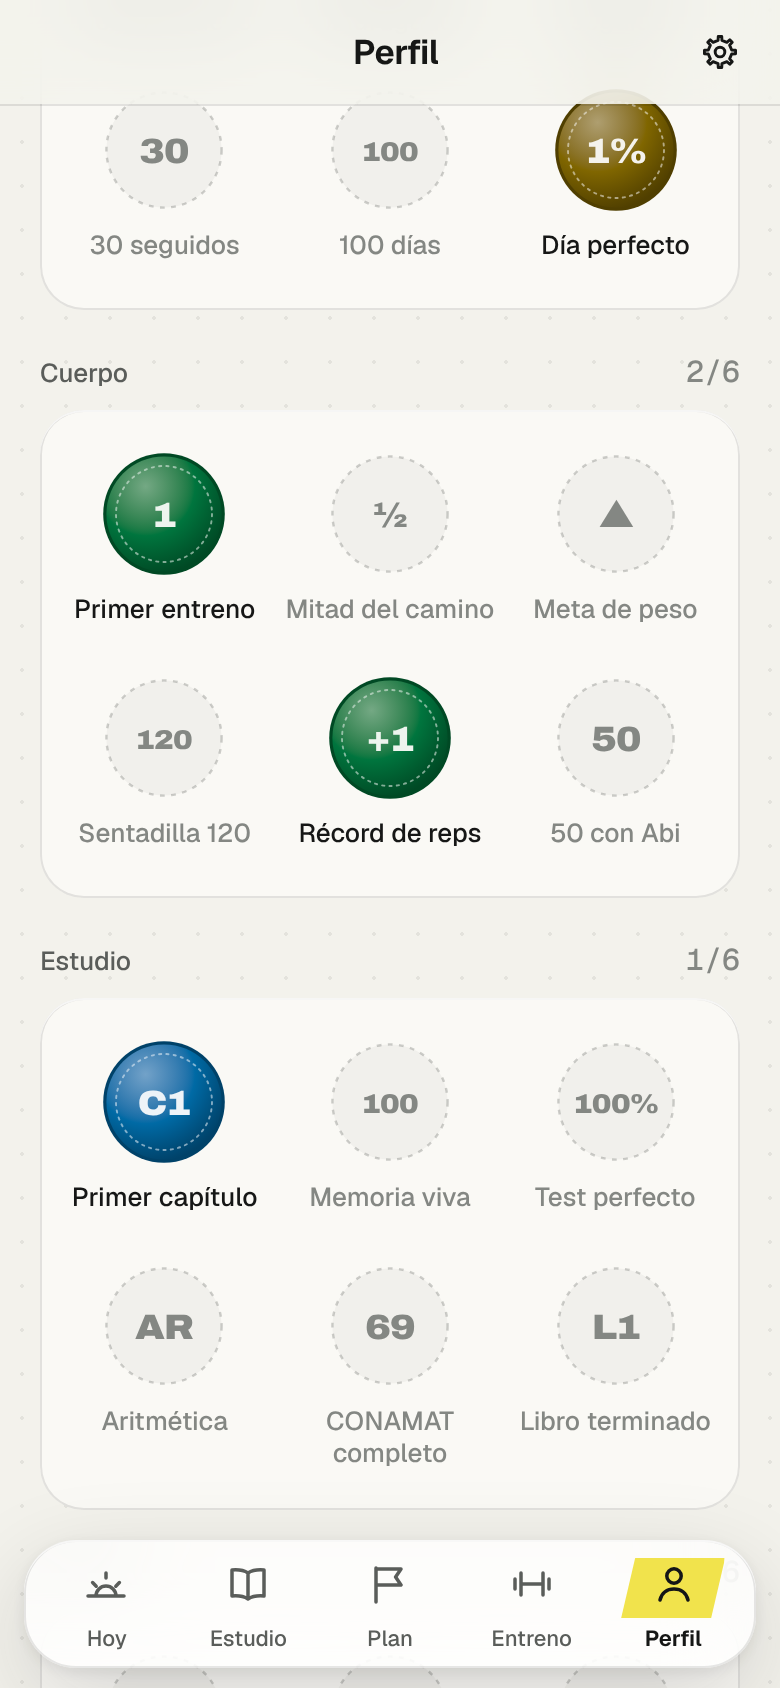
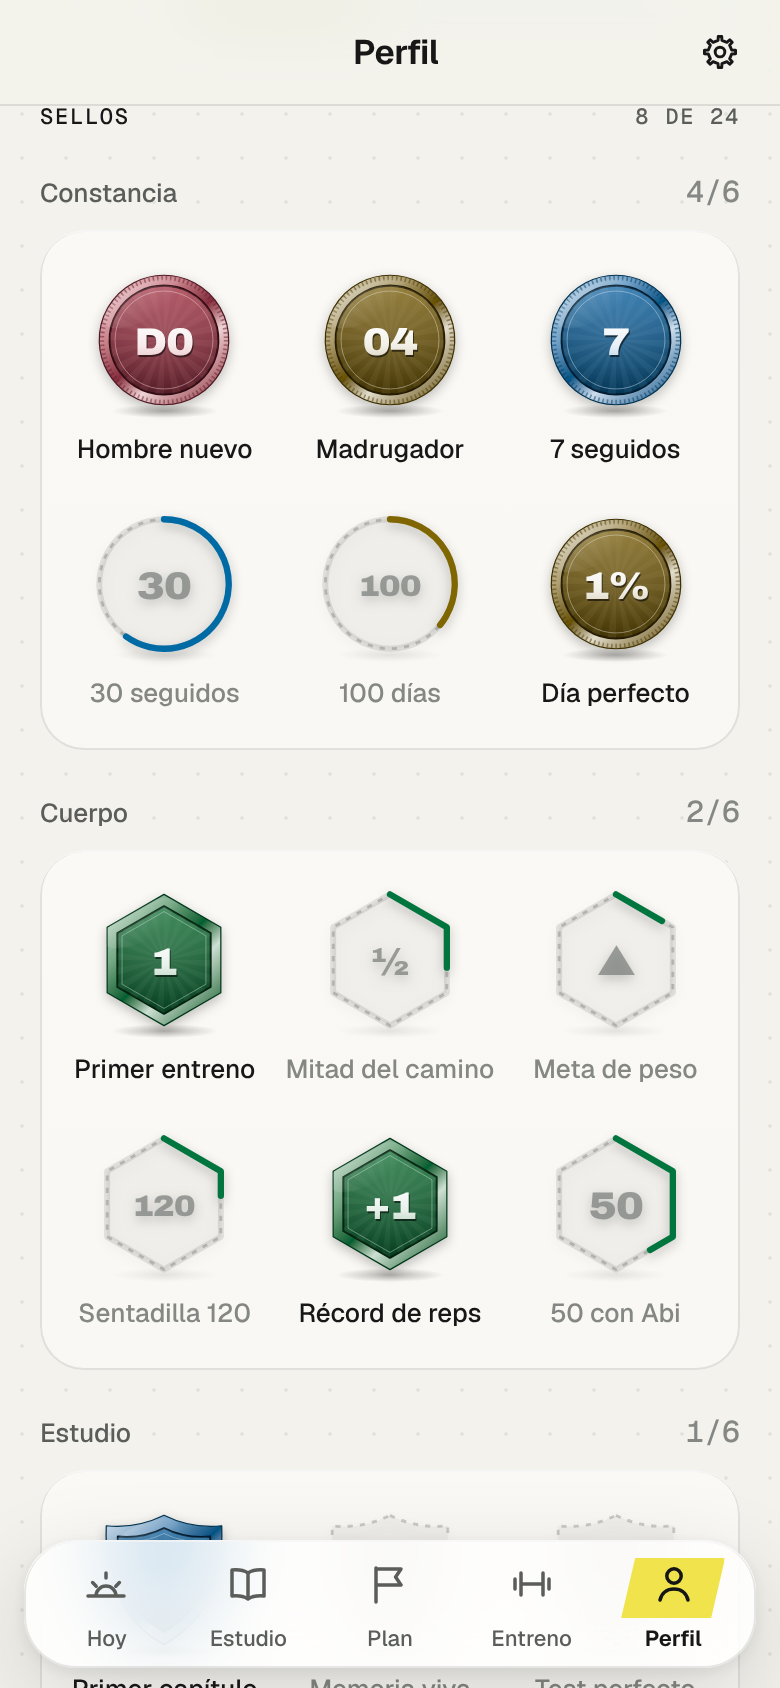
UX 2.0 · seals: enamel face instead of the pastel fill
The earned seal's face was a pastel radial gradient and read as a plastic
button. Now: a metal rim in the area color, a deep enamel face of that
color with engraved rays and a soft glow, and the mark in bright embossed
metal. Light theme: enamel is the area color itself, mark almost white.
Demo captures updated (vitrina, wall, light, detail sheet).

Claude-Session: https://claude.ai/code/session_01QGDMaQtj1DGxCuW8ZLCfdr

diff --git a/src/v2/perfil/Sello.tsx b/src/v2/perfil/Sello.tsx
@@ -1,6 +1,6 @@
 /**
- * Trazo 2.0 · el sello: una pieza acuñada con la silueta de su grupo (moneda, hexágono, escudo o rosetón), canto biselado, cara con
- * el color de su área, la marca grabada y un brillo que la cruza. Bloqueado es la silueta vacía, con un anillo que se llena a
+ * Trazo 2.0 · el sello: una pieza acuñada con la silueta de su grupo (moneda, hexágono, escudo o rosetón). El canto es metal del color
+ * de su área; la cara, esmalte profundo de ese mismo color con rayos grabados; la marca, metal claro en relieve; y un brillo que la cruza. Bloqueado es la silueta vacía, con un anillo que se llena a
  * medida que te acercás. La versión grande (`SelloInclinable`) sigue al dedo o al mouse como una pieza que se inclina en la mano.
  * Es un dibujo: el nombre lo dice quien lo usa.
  */
@@ -25,6 +25,14 @@ export interface PropsSello {
   className?: string;
 }
 
+const r2 = (n: number) => Math.round(n * 100) / 100;
+/** Los rayos grabados en el esmalte: veinte cuñas que salen del centro, una sí y una no. */
+const RAYOS = Array.from({ length: 20 }, (_, k) => {
+  const a = ((k * 18 - 90) * Math.PI) / 180;
+  const b = ((k * 18 - 81) * Math.PI) / 180;
+  return `M40 40L${r2(40 + 48 * Math.cos(a))} ${r2(40 + 48 * Math.sin(a))}L${r2(40 + 48 * Math.cos(b))} ${r2(40 + 48 * Math.sin(b))}Z`;
+}).join('');
+
 export function SelloV2({ marca, color, grupo = 'constancia', ganado, lado = 72, nombre, i = 0, progreso, className }: PropsSello) {
   const id = useId();
   const forma: Forma = FORMA_DE_GRUPO[grupo];
@@ -40,22 +48,31 @@ export function SelloV2({ marca, color, grupo = 'constancia', ganado, lado = 72,
       {ganado ? (
         <>
           <defs>
-            <linearGradient id={`${id}r`} x1="0.1" y1="0" x2="0.9" y2="1"><stop offset="0" className="sl-r0" /><stop offset="0.5" className="sl-r1" /><stop offset="1" className="sl-r2" /></linearGradient>
-            <radialGradient id={`${id}m`} cx="32%" cy="24%" r="85%"><stop offset="0" className="sl-g0" /><stop offset="0.5" className="sl-g1" /><stop offset="1" className="sl-g2" /></radialGradient>
+            {/* El canto: metal con bandas de luz y sombra, como se ve una pieza acuñada. */}
+            <linearGradient id={`${id}r`} x1="0.08" y1="0" x2="0.92" y2="1"><stop offset="0" className="sl-m0" /><stop offset="0.28" className="sl-m1" /><stop offset="0.5" className="sl-m2" /><stop offset="0.66" className="sl-m0" /><stop offset="1" className="sl-m2" /></linearGradient>
+            {/* La cara: esmalte profundo del color del área, más claro arriba. */}
+            <linearGradient id={`${id}e`} x1="0" y1="0" x2="0" y2="1"><stop offset="0" className="sl-e0" /><stop offset="1" className="sl-e1" /></linearGradient>
+            <radialGradient id={`${id}v`} cx="50%" cy="40%" r="58%"><stop offset="0" className="sl-v0" /><stop offset="1" className="sl-v1" /></radialGradient>
+            {/* La marca: metal claro, en relieve. */}
+            <linearGradient id={`${id}t`} x1="0" y1="0" x2="0" y2="1"><stop offset="0" className="sl-t0" /><stop offset="0.6" className="sl-t1" /><stop offset="1" className="sl-t2" /></linearGradient>
             <linearGradient id={`${id}b`} x1="0" y1="0" x2="1" y2="0"><stop offset="0" stopColor="white" stopOpacity="0" /><stop offset="0.5" stopColor="white" stopOpacity="0.9" /><stop offset="1" stopColor="white" stopOpacity="0" /></linearGradient>
-            <linearGradient id={`${id}h`} x1="0" y1="0" x2="0.6" y2="1"><stop offset="0" stopColor="white" stopOpacity="0.5" /><stop offset="1" stopColor="white" stopOpacity="0" /></linearGradient>
+            <linearGradient id={`${id}h`} x1="0" y1="0" x2="0.6" y2="1"><stop offset="0" stopColor="white" stopOpacity="0.42" /><stop offset="1" stopColor="white" stopOpacity="0" /></linearGradient>
             <clipPath id={`${id}c`}><path d={contorno} /></clipPath>
           </defs>
           <path className="sl-canto" d={contorno} fill={`url(#${id}r)`} />
           {forma === 'moneda' && <circle className="sl-estrias" cx="40" cy="40" r="35.4" />}
           <g transform={cara}>
-            <path className="sl-cara" d={contorno} fill={`url(#${id}m)`} />
-            <path className="sl-aro" d={contorno} transform="translate(40 40) scale(0.88) translate(-40 -40)" />
+            <path className="sl-cara" d={contorno} fill={`url(#${id}e)`} />
+            <g clipPath={`url(#${id}c)`}>
+              <path className="sl-rayos" d={RAYOS} />
+              <circle cx="40" cy="40" r="44" fill={`url(#${id}v)`} />
+            </g>
+            <path className="sl-aro" d={contorno} transform="translate(40 40) scale(0.9) translate(-40 -40)" />
           </g>
-          <text className="sl-marca sl-marca-luz" x="40.7" y="42" textAnchor="middle" dominantBaseline="central" fontSize={largo}>{marca}</text>
-          <text className="sl-marca" x="40" y="41" textAnchor="middle" dominantBaseline="central" fontSize={largo}>{marca}</text>
+          <text className="sl-marca sl-marca-sombra" x="40.6" y="42.3" textAnchor="middle" dominantBaseline="central" fontSize={largo}>{marca}</text>
+          <text className="sl-marca" x="40" y="41" textAnchor="middle" dominantBaseline="central" fontSize={largo} style={{ fill: `url(#${id}t)` }}>{marca}</text>
           <g clipPath={`url(#${id}c)`}>
-            <ellipse className="sl-reflejo" cx="29" cy="21" rx="22" ry="11" transform="rotate(-28 29 21)" fill={`url(#${id}h)`} />
+            <ellipse className="sl-reflejo" cx="27" cy="19" rx="24" ry="10" transform="rotate(-28 27 19)" fill={`url(#${id}h)`} />
             <rect className="sl-brillo" x="-34" y="-10" width="26" height="100" fill={`url(#${id}b)`} />
           </g>
         </>

diff --git a/src/v2/perfil/perfil.css b/src/v2/perfil/perfil.css
@@ -1,27 +1,32 @@
 /* ——— Perfil, Avance, Cierre y la presentación (tanda 3.2) ——— */
 
-/* El sello: una pieza acuñada con la silueta de su grupo y el color de su área. */
-.sl { --sl-tinta: color-mix(in oklab, var(--sl-c) 24%, black); --sl-luz: color-mix(in oklab, var(--sl-c) 48%, white); --sl-sombra: color-mix(in oklab, var(--sl-c) 56%, black); --sl-canto-claro: color-mix(in oklab, var(--sl-c) 30%, white); --sl-canto-oscuro: color-mix(in oklab, var(--sl-c) 40%, black); display: block; flex: none; overflow: visible; filter: drop-shadow(0 2px 3px color-mix(in oklab, black 38%, transparent)); }
-html[data-ui='v2'][data-theme='light'] .sl { --sl-tinta: color-mix(in oklab, var(--sl-c) 12%, black); --sl-luz: color-mix(in oklab, var(--sl-c) 52%, white); --sl-sombra: color-mix(in oklab, var(--sl-c) 70%, black); filter: drop-shadow(0 2px 3px color-mix(in oklab, black 22%, transparent)); }
+/* El sello: una pieza acuñada con la silueta de su grupo. Canto de metal, cara de esmalte profundo y marca de metal claro. */
+.sl { --sl-metal-luz: color-mix(in oklab, var(--sl-c) 42%, white); --sl-metal: var(--sl-c); --sl-metal-sombra: color-mix(in oklab, var(--sl-c) 46%, black); --sl-esmalte-0: color-mix(in oklab, var(--sl-c) 40%, black); --sl-esmalte-1: color-mix(in oklab, var(--sl-c) 15%, black); --sl-marca-0: color-mix(in oklab, var(--sl-c) 14%, white); --sl-marca-1: color-mix(in oklab, var(--sl-c) 58%, white); --sl-marca-2: var(--sl-c); display: block; flex: none; overflow: visible; filter: drop-shadow(0 2px 3px color-mix(in oklab, black 42%, transparent)); }
+/* En claro los colores de área son oscuros: el esmalte es ese color, el metal va más claro y la marca casi blanca. */
+html[data-ui='v2'][data-theme='light'] .sl { --sl-metal-luz: color-mix(in oklab, var(--sl-c) 22%, white); --sl-metal: color-mix(in oklab, var(--sl-c) 62%, white); --sl-metal-sombra: color-mix(in oklab, var(--sl-c) 86%, black); --sl-esmalte-0: color-mix(in oklab, var(--sl-c) 88%, white); --sl-esmalte-1: color-mix(in oklab, var(--sl-c) 60%, black); --sl-marca-0: white; --sl-marca-1: color-mix(in oklab, var(--sl-c) 10%, white); --sl-marca-2: color-mix(in oklab, var(--sl-c) 30%, white); filter: drop-shadow(0 2px 3px color-mix(in oklab, black 24%, transparent)); }
 .sl-bloqueado { filter: none; }
-.sl-r0 { stop-color: var(--sl-canto-claro); }
-.sl-r1 { stop-color: color-mix(in oklab, var(--sl-c) 70%, var(--sl-canto-oscuro)); }
-.sl-r2 { stop-color: var(--sl-canto-oscuro); }
-.sl-g0 { stop-color: var(--sl-luz); }
-.sl-g1 { stop-color: var(--sl-c); }
-.sl-g2 { stop-color: var(--sl-sombra); }
-.sl-canto { stroke: var(--sl-canto-oscuro); stroke-width: 0.8; stroke-linejoin: round; }
-.sl-estrias { fill: none; stroke: var(--sl-canto-oscuro); stroke-width: 2.4; stroke-dasharray: 1 1.55; opacity: 0.55; }
-.sl-cara { stroke: color-mix(in oklab, var(--sl-canto-oscuro) 80%, transparent); stroke-width: 1; stroke-linejoin: round; }
-.sl-aro { fill: none; stroke: var(--sl-tinta); stroke-width: 1.1; stroke-dasharray: 1.4 3; stroke-linecap: round; opacity: 0.5; }
+.sl-m0 { stop-color: var(--sl-metal-luz); }
+.sl-m1 { stop-color: var(--sl-metal); }
+.sl-m2 { stop-color: var(--sl-metal-sombra); }
+.sl-e0 { stop-color: var(--sl-esmalte-0); }
+.sl-e1 { stop-color: var(--sl-esmalte-1); }
+.sl-v0 { stop-color: var(--sl-metal); stop-opacity: 0.34; }
+.sl-v1 { stop-color: var(--sl-metal); stop-opacity: 0; }
+.sl-t0 { stop-color: var(--sl-marca-0); }
+.sl-t1 { stop-color: var(--sl-marca-1); }
+.sl-t2 { stop-color: var(--sl-marca-2); }
+.sl-canto { stroke: color-mix(in oklab, var(--sl-metal-sombra) 70%, black); stroke-width: 0.7; stroke-linejoin: round; }
+.sl-estrias { fill: none; stroke: color-mix(in oklab, var(--sl-metal-sombra) 80%, black); stroke-width: 2.4; stroke-dasharray: 0.9 1.6; opacity: 0.5; }
+.sl-cara { stroke: color-mix(in oklab, var(--sl-esmalte-1) 70%, black); stroke-width: 1.4; stroke-linejoin: round; }
+.sl-rayos { fill: var(--sl-metal); opacity: 0.1; }
+.sl-aro { fill: none; stroke: var(--sl-metal-luz); stroke-width: 0.7; stroke-linejoin: round; opacity: 0.5; }
 .sl-marca { font-family: var(--font-title); font-weight: 900; font-stretch: 110%; letter-spacing: -0.02em; fill: var(--texto-3); }
-.sl-ganado .sl-marca { fill: var(--sl-tinta); }
-.sl-ganado .sl-marca-luz { fill: color-mix(in oklab, var(--sl-luz) 80%, white); opacity: 0.7; }
+.sl-ganado .sl-marca-sombra { fill: black; opacity: 0.55; }
 .sl-hueco { fill: color-mix(in oklab, var(--texto) 4%, transparent); stroke: var(--raya-fuerte); stroke-width: 1.6; stroke-dasharray: 3 4; stroke-linejoin: round; }
 .sl-pista { fill: none; stroke: var(--raya-fuerte); stroke-width: 3.4; stroke-linejoin: round; opacity: 0.5; }
 .sl-avance { fill: none; stroke: var(--sl-c); stroke-width: 3.6; stroke-linecap: round; stroke-linejoin: round; animation: sl-traza 900ms var(--curva-salida) calc(240ms + var(--i, 0) * 60ms) backwards; }
 .sl-bloqueado .sl-marca { opacity: 0.8; }
-.sl-reflejo { opacity: 0.55; }
+.sl-reflejo { opacity: 0.5; }
 .sl-brillo { opacity: 0.55; transform-origin: 40px 40px; transform: rotate(20deg) translateX(0); animation: sl-brilla 1100ms var(--curva-salida) calc(360ms + var(--i, 0) * 90ms) both; }
 .sl-grande .sl-brillo { animation: sl-brilla-lento 3.6s ease-in-out 700ms infinite both; }
 .sl-cae { animation: sl-cae 640ms var(--curva-ida-vuelta) both; transform-origin: center; }

diff --git a/docs/ux/lenguaje-2.0.md b/docs/ux/lenguaje-2.0.md
@@ -517,12 +517,14 @@ screen and the new-seal screen are `parte: true` in the registry (they belong to
 untouched. The word stays **Sellos** (it is what the history text and the 24 definitions say); what changes is how they look.
 
 **The seal** (`Sello.tsx`, `formas.ts`): a minted piece with the **silhouette of its group**, so the wall reads before the names do:
-Constancia = coin (milled edge), Cuerpo = hexagon (a weight plate), Estudio = shield, Trabajo = rosette (a wax stamp). Layers: bevelled
-rim (light top-left, dark bottom-right), a face with the area color as a radial gradient, a dotted inner ring, the mark engraved
-(a light copy offset under a dark one), a soft gloss and a **sheen** that crosses it once on appearing (staggered across a row) and
-again on hover or focus. **Locked** is the empty silhouette with a **progress ring drawn along its outline** (the seal's own
+Constancia = coin (milled edge), Cuerpo = hexagon (a weight plate), Estudio = shield, Trabajo = rosette (a wax stamp). Material:
+a **metal rim** in the area color (bands of light and shadow), a **deep enamel face** of that same color (dark, lighter on top,
+with a sunburst of engraved rays and a soft glow in the middle), a hairline inner ring, and the **mark in bright metal, embossed**
+(a dark copy offset under it). The first version filled the face with a pastel radial gradient and read as a plastic button;
+the color now lives in the rim, the glow and the mark, not in a flat fill. A soft gloss and a **sheen** cross it once on appearing
+(staggered across a row) and again on hover or focus. **Locked** is the empty silhouette with a **progress ring drawn along its outline** (the seal's own
 `progress()` rule: 18 of 30 days = 60 % of the ring), so the wall tells you how close each one is; seals with no measurable rule
-(manual or one-off) show no ring. In the light theme the metal is deeper and the mark darker so the contrast holds. It is a drawing:
+(manual or one-off) show no ring. In the light theme the enamel is the area color itself (those are dark there), the rim is lighter and the mark almost white. It is a drawing:
 the name is given by whoever uses it; the wall buttons say "100 días: bloqueado, 36 %".
 **Big seal** (`SelloInclinable`): follows the mouse, or a sideways drag, tilting up to 17° in 3D with the sheen moving with the light;
 it settles back on release. Off with reduced motion. Used in the detail sheet and in the new-seal screen.
